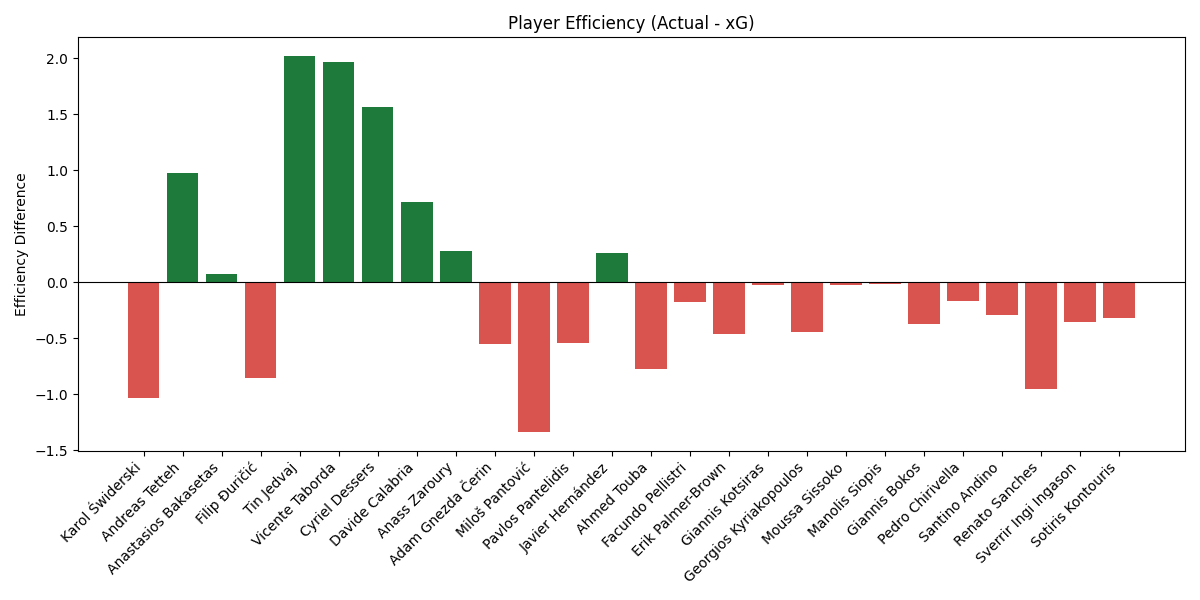
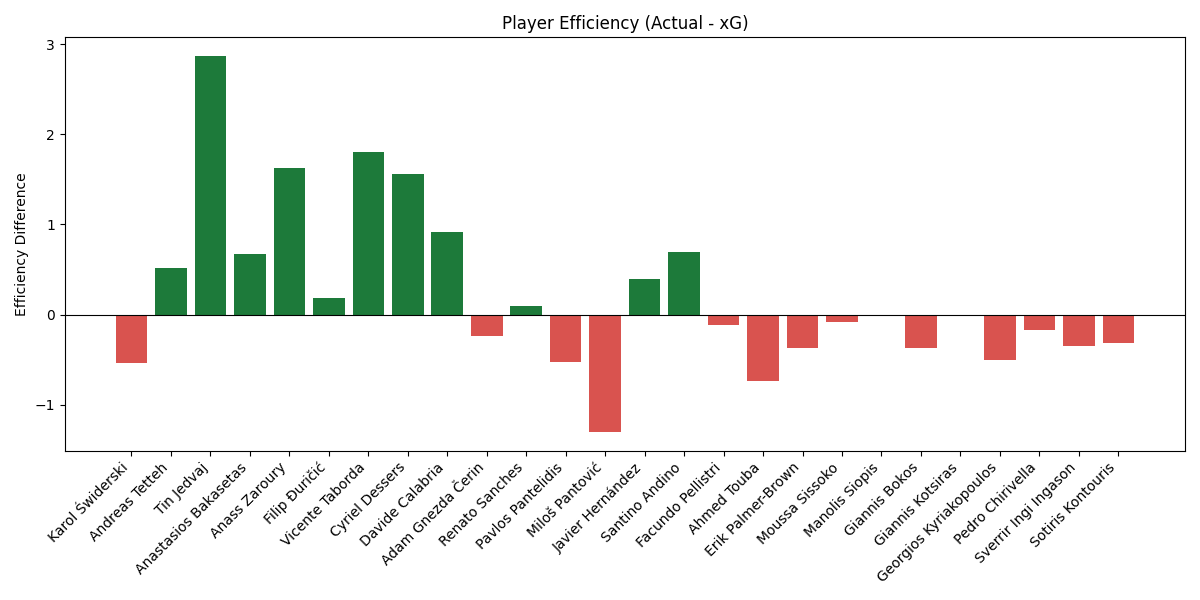
Update stats: added new match & filtered blocked shots

diff --git a/Shot Map.py b/Shot Map.py
@@ -1,0 +1,25 @@
+import pandas as pd
+from mplsoccer import Pitch
+import matplotlib.pyplot as plt
+
+df = pd.read_csv('pao_full_stats_with_minutes.csv')
+df = df[['player_name', 'X', 'Y', 'shotType', 'is_goal', 'xg']]
+df = df[df['shotType'] != "Penalty"]
+
+pitch = Pitch(pitch_type='opta', pitch_color='#22312b', line_color='#c7d5cc')
+fig, ax = pitch.draw(figsize=(13, 8))
+
+colors = ['#1d7a3a' if x == 1 else '#d9534f' for x in df['is_goal']]
+
+pitch.scatter(df.X, df.Y, 
+              s=df.xg * 500, 
+              c=colors, 
+              edgecolors='white', 
+              alpha=0.7, 
+              ax=ax)
+
+plt.title('Panathinaikos Shot Map', color='white', size=20, pad=20)
+fig.set_facecolor('#22312b')
+plt.savefig('Shot Map.png') 
+plt.show()
+

diff --git a/Greek_Super_League_Shots_Scraper.py b/Greek_Super_League_Shots_Scraper.py
@@ -31,7 +31,8 @@ urls = [
     "https://www.sofascore.com/football/match/panathinaikos-olympiacos-fc/VobsYob#id:14159139",
     "https://www.sofascore.com/football/match/ae-larisa-panathinaikos/Yobsppb#id:14159147",
     "https://www.sofascore.com/football/match/panathinaikos-ofi-crete/QobsYob#id:14159157",
-    "https://www.sofascore.com/football/match/aris-thessaloniki-panathinaikos/Yobscpb#id:14159161"
+    "https://www.sofascore.com/football/match/aris-thessaloniki-panathinaikos/Yobscpb#id:14159161",
+    "https://www.sofascore.com/football/match/panathinaikos-fc-ofi-crete/QobsYob#id:15477451"
 ]
 
 pao_players = [

diff --git a/Shot Analysis.py b/Shot Analysis.py
@@ -2,7 +2,9 @@ import pandas as pd
 import matplotlib.pyplot as plt
 import numpy as np
 
-df = pd.read_csv('Panathinaikos_shots.csv')
+df = pd.read_csv('pao_full_stats_with_minutes.csv')
+
+df = df[df['shotType'] != 'block']
 
 analysis = df.groupby('player_name').agg({
     'is_goal': 'sum',
